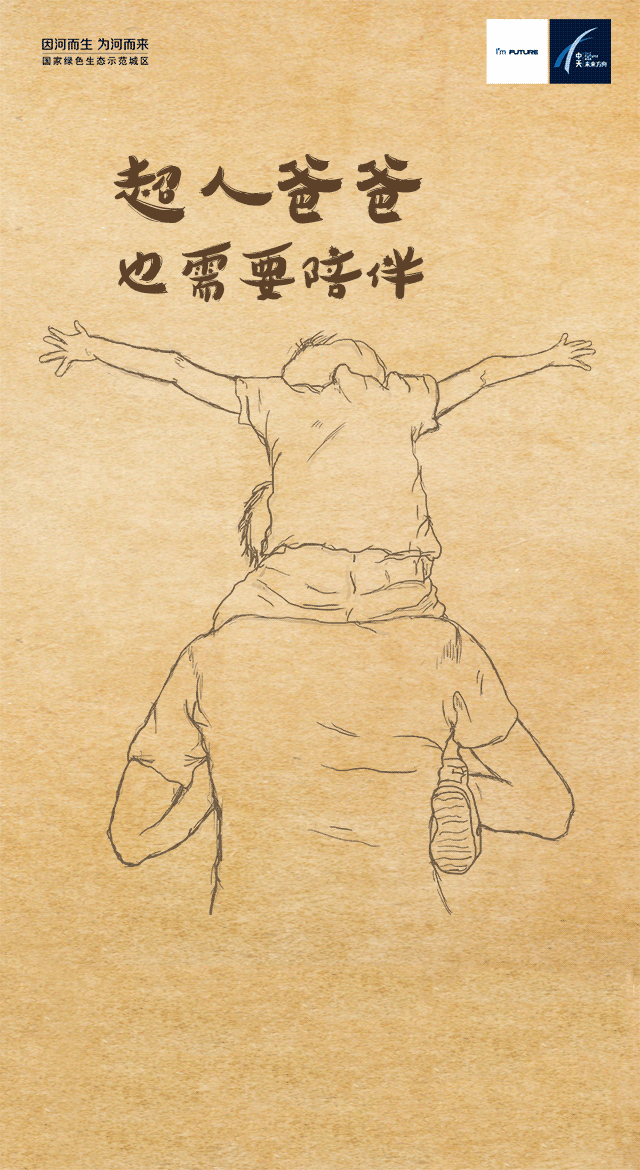
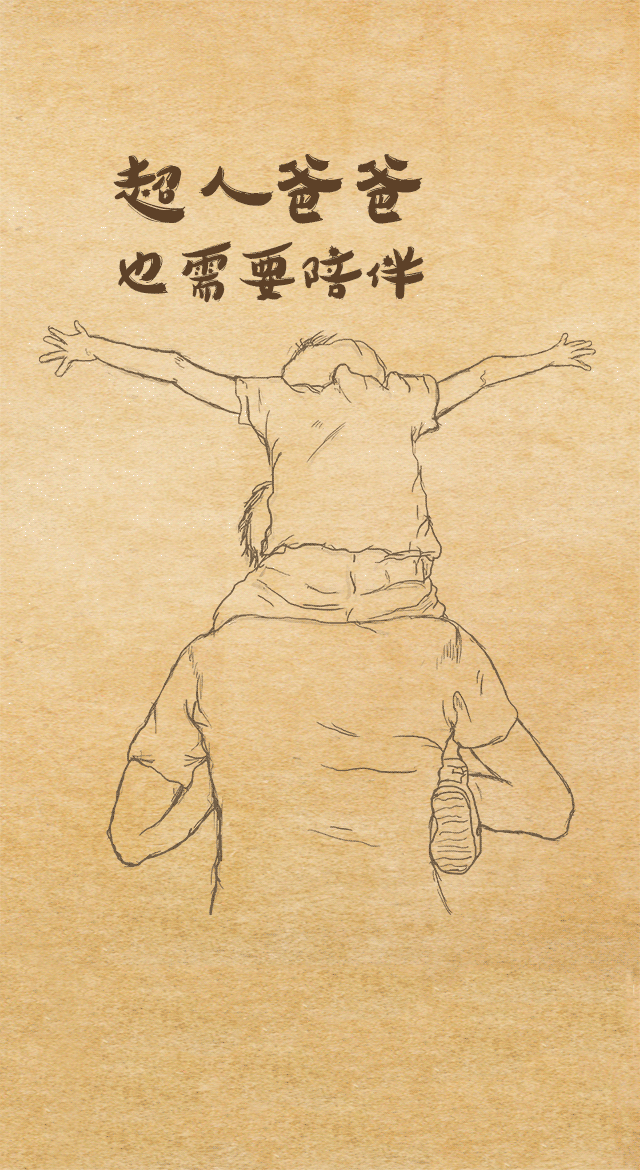
代码调整，优化

Changed region(s): [[0.75, 0.0, 1.0, 0.0923], [0.0625, 0.0308, 0.25, 0.0615]]

diff --git a/applications/static/h5/js/father/js.js b/applications/static/h5/js/father/js.js
@@ -178,16 +178,18 @@ $(function() {
 				}
 			}
 		}},800);
-		//微信下音乐加载的hack
 		getMusic();
-//			if ( is_weixn() ){
-//				document.addEventListener("WeixinJSBridgeReady",function(){
-//					getMusic();
-//			    },false);
-//			}
-//			else{
+		//微信下音乐加载的hack
+//		if ( is_weixn() ){
+//			document.addEventListener("WeixinJSBridgeReady",function(){
 //				getMusic();
-//			}
+//				console.log('微信端')
+//		    },false);
+//		}
+//		else{
+//			getMusic();
+//		}
+
 	}
 	function enter(){
 		if ( load1 && load2 ){
@@ -228,6 +230,7 @@ $(function() {
 		bgm.src = "http://static.wesogou.com/h5/images/father/bgm.mp3?v=20170606";
 		bgm.loop = "loop";
 		bgm.play();
+
 		musicA = setInterval(function(){
 			if ( bgm.currentTime != 0 )
 			{

diff --git a/applications/static/h5/css/father/message.css b/applications/static/h5/css/father/message.css
@@ -5,18 +5,19 @@
 
 html{
 	height: 100%;
-    background: url(../../images/father/bg_9.png?v=2017);
+    /*background: url(../../images/father/bg_9.png?v=2017);
     background-repeat: no-repeat;
-    background-size: cover;
-	max-width:414px;
+    background-size: 100%;
+	max-width:100%;*/
 }
 body{
-	height:100%;
+	height: auto;
+    min-height: 100%;
 }
 
 .main{
 	position: absolute;
-	top: 33%;
+    top: 39%;
     width: 50%;
     left: 23%;
 }
@@ -31,7 +32,7 @@ body{
     height: 3rem;
     text-indent: -9999px;
     overflow: hidden;
-    bottom: 2.5rem;
+    bottom: -5px;
 }
 
 .btn{
@@ -39,6 +40,8 @@ body{
     bottom: 20%;
     left: 37%;
 }
+
+
 
 
 

diff --git a/applications/static/h5/css/father/skin.css b/applications/static/h5/css/father/skin.css
@@ -119,7 +119,7 @@ img{display:block;width:100%}
 @-webkit-keyframes fade-in-big{0%{-webkit-transform:scale(0.8)}100%{-webkit-transform:scale(1)}}
 /*-----------------------------�ڰ���-------------------------------------*/
 .logo{position:absolute;width:1.03rem;left:.14rem;top:.18rem}
-.liwu{position:absolute;left:0;width:3.2rem;height:2.26rem;bottom:2.26rem;opacity:0}
+.liwu{position:absolute;left:0;width:3.2rem;height:2.26rem;bottom: 2.75rem;opacity:0}
 .text-end{position:absolute;left:.35rem;width:2.44rem;height:.33rem;bottom:1.25rem;opacity:0}
 .button{bottom:.36rem;opacity:0}
 

diff --git a/applications/static/h5/css/father/list.css b/applications/static/h5/css/father/list.css
@@ -58,3 +58,29 @@
 	overflow: scroll;
 	    font-size: 0.2rem;
 }
+
+
+
+#logo{
+	position:absolute;
+	width:100%;
+	height:1rem;
+	z-index:500;
+}
+
+.logo-left, .logo-right{
+	float:left;
+	width:50%;
+	height: 100%;
+}
+
+.logo-right img{
+	height:100%;
+	margin-left: -0.2rem;
+}
+
+
+.logo-left img{
+	height:100%;
+	margin-left: 0.3rem;
+}

diff --git a/applications/www/static/target/css/style_other.css b/applications/www/static/target/css/style_other.css
@@ -42,7 +42,7 @@ width: 100%;
 	background-size:cover;
 	}
 .page2 .inner {position: relative; min-height: 100%; overflow: auto; 
-background:url("../images/bg_10.png"); 
+background:url("../images/bg_10.png?v=2017060923333"); 
 -webkit-overflow-scrolling: touch;
 	    background-size: 100%;
 }

diff --git a/applications/www/application/views/father/index.php b/applications/www/application/views/father/index.php
@@ -125,13 +125,14 @@ function setElement(){var clientWidth=document.documentElement.clientWidth;scale
 		<div class="swiper-slide">
 			<div class="page end">
 				<div class="bg no-full-bottom"><img src="" loadsrc="<?php echo $domain['statics']['url']?>/h5/images/father/new-8.png" /></div>
-				<div class="liwu"><img src="" loadsrc="<?php echo $domain['statics']['url']?>/h5/images/father/liwu.png" /></div>
+				<div class="liwu"><img src="" loadsrc="<?php echo $domain['statics']['url']?>/h5/images/father/liwu.png?v=2017" /></div>
+				<div class="liwu diycenter" style="display: none;bottom: 1.65rem;width: 100%;text-align:center;margin-left: 5%;z-index: 99;"><img style="width:90%" src="" loadsrc="<?php echo $domain['statics']['url']?>/h5/images/father/rule.png?v=2017" /></div>
 				<div class="text-end"><img src="" loadsrc="<?php echo $domain['statics']['url']?>/h5/images/father/text-end.png" /></div>
 				<div class="button auto-x">
 					<div class="bg">
 					</div>
 					<a class="link" href="/father/message">为爸爸赢大礼</a>
-					<a class="gz" onclick="alert('规则')">规则</a>
+					<a class="gz" onclick="diycenter()">规则</a>
 				</div>
 			</div>
 		</div>
@@ -156,10 +157,14 @@ function setElement(){var clientWidth=document.documentElement.clientWidth;scale
 	</div>
 	
 	<!--音乐 end-->
+	<?php $this->load->view('common/share_common.php')?>
 	<script type="text/javascript" src="<?php echo get_css_js_url('father/jquery-2.1.1.min.js', 'h5')?>"></script>
 	<script type="text/javascript" src="<?php echo get_css_js_url('father/js.js', 'h5')?>"></script>
 	<script src="<?php echo get_css_js_url('dialog.js', 'common')?>"></script>
-		
-    <?php $this->load->view('common/share_common.php')?>
+	<script type="text/javascript">
+        function diycenter(){
+            $('.diycenter').show();
+        }
+	</script>
 	</body>
 </html>

diff --git a/applications/www/application/views/father/new_other.php b/applications/www/application/views/father/new_other.php
@@ -6,7 +6,7 @@
 		<title>父爱如山，我的爸爸是超人</title>
 		<script type="text/javascript" charset="UTF-8" src="/static/target/js/rem.js"></script>
 		<link rel="stylesheet" charset="UTF-8" type="text/css" href="/static/target/css/base.css"  />
-		<link rel="stylesheet" charset="UTF-8" type="text/css" href="/static/target/css/style_other.css"  />
+		<link rel="stylesheet" charset="UTF-8" type="text/css" href="/static/target/css/style_other.css?v=2017060923"  />
 		<link rel="stylesheet" href="<?php echo get_css_js_url('father/list.css', 'h5')?>" />
 		<link rel="stylesheet" href="<?php echo get_css_js_url('dropload.css', 'common')?>" />
 
@@ -16,6 +16,10 @@
 	</head>
 
 	<body>
+	   <div id="logo">
+	       <div class="logo-left"><img src="<?php echo $domain['statics']['url']?>/h5/images/father/logo-left.png"></div>
+	       <div class="logo-right"><img src="<?php echo $domain['statics']['url']?>/h5/images/father/logo-right.png"></div>
+	   </div>
 		<!--首页-->
 		<style>
 		#targetCount{
@@ -74,6 +78,8 @@
 				<a href="/father/message" class="btn-fix"></a>
 			</div>
 		</div>
+		
+		
 
 		<script type="text/javascript">
 

diff --git a/applications/www/application/views/father/message.php b/applications/www/application/views/father/message.php
@@ -21,7 +21,7 @@
 
 </head>
 <body>
-
+    <img style="width:100%" src="<?php echo $domain['statics']['url']?>/h5/images/father/bg_9.png" />
     <div class="main">
         <textarea placeholder="请留言..." style="border: 1px solid #e5e5e5;height: 2.6rem;width: 100%;max-width: 250px;" id="saymsg"></textarea><br>
         <img id="code_img" style="height: 35px;width: 49%;" src="/father/code"><br>
